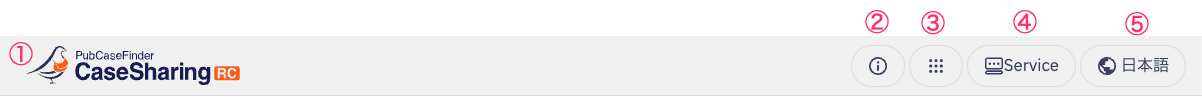
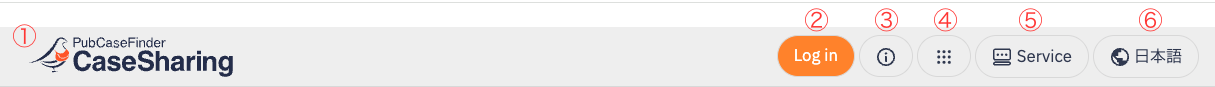
ログイン機能について追記

diff --git a/docs/overall-structure/screen-specifications.md b/docs/overall-structure/screen-specifications.md
@@ -37,14 +37,31 @@
 
 
 <br>
-**②サービスの説明モーダル表示用アイコン**
+**②ログイン**
+
+Googleアカウントでログインまたは登録が可能<br>
+ログインまたは登録の選択時には離脱アラートが表示される<br>
+選択後は同ブラウザで遷移する為、作業中のデータは破棄される
+
+<img src="../../assets/images/login_modal.png" width="700" style="display: block;"/>
+
+- ログイン
+    - Googleのログイン画面へ遷移
+    - 登録済みのGoogleアカウントでログインが可能
+- 登録
+    - Googleフォームに必要事項を入力して送信
+    - 承認されるとログイン機能が使用可能となる
+
+
+<br>
+**③サービスの説明モーダル表示用アイコン**
 
 CaseSharingについての説明モーダルの表示。
 
 <img src="../../assets/images/info_modal.png" width="700" style="display: block;"/>
 
 <br>
-**③各種リンクアイコン**
+**④各種リンクアイコン**
 
 アイコン押下で各種ページリンクの一覧の表示。リンク押下時は別タブを開く。
 
@@ -58,7 +75,7 @@ CaseSharingについての説明モーダルの表示。
 - Contact：メーラーが立ち上がり、宛先に support@dbcls.rois.ac.jp,pubcasefinder@dbcls.rois.ac.jp がセットされる
 
 <br>
-**④各種サービス**
+**⑤各種サービス**
 
 アイコン押下で各種サービス一覧のセレクトボックス表示。リンク押下時は別タブを開く。
 <img src="../../assets/images/service_list.png" width="300" style="display: block;"/>
@@ -68,7 +85,7 @@ CaseSharingについての説明モーダルの表示。
 - PanelSearch：[https://dev-pubcasefinder.dbcls.jp/panelsearch](https://dev-pubcasefinder.dbcls.jp/panelsearch)
 
 <br>
-**⑤多言語切替**
+**⑥多言語切替**
 
 アイコン押下で対応言語のセレクトボックス表示。
 
